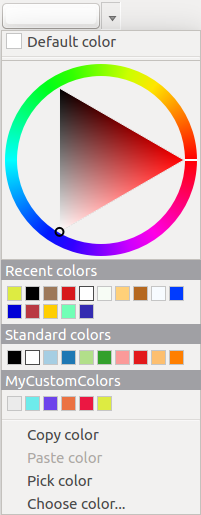
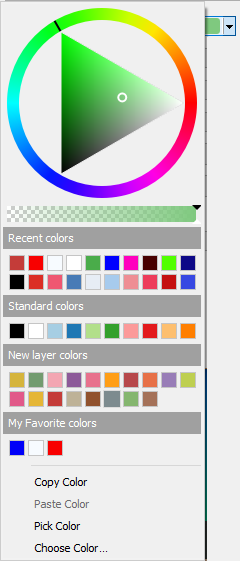
Exploring the color widget drop-down menu

diff --git a/source/docs/user_manual/introduction/general_tools.rst b/source/docs/user_manual/introduction/general_tools.rst
@@ -1828,10 +1828,24 @@ can also click the **[Sample color]** button to trigger the picker capability.
 
 .. tip:: **Quick color modification**
 
-   Click the drop-down arrow at the right of the |selectColor| color box button
-   to display a widget for a quick color selection, either in the color wheel or
-   from existing color palettes. You can also use it to :guilabel:`copy` or
-   :guilabel:`paste` a color.
+  Drag-and-drop a color selector widget on another one to apply its color.
+
+
+.. color_widget:
+
+The color drop-down shortcut
+............................
+
+Click the drop-down arrow at the right of the |selectColor| color button
+to display a widget for a quick color selection. This shortcut provides access
+to:
+
+* a color wheel to pick a color from;
+* an alpha slider to tweak the selected color opacity;
+* the color palettes previously set to :guilabel:`Show in Color Buttons`;
+* copy the current color and paste it in another widget;
+* pick color from anywhere on your computer;
+* and choose color from the color selector dialog.
 
 .. _figure_color_selector:
 
